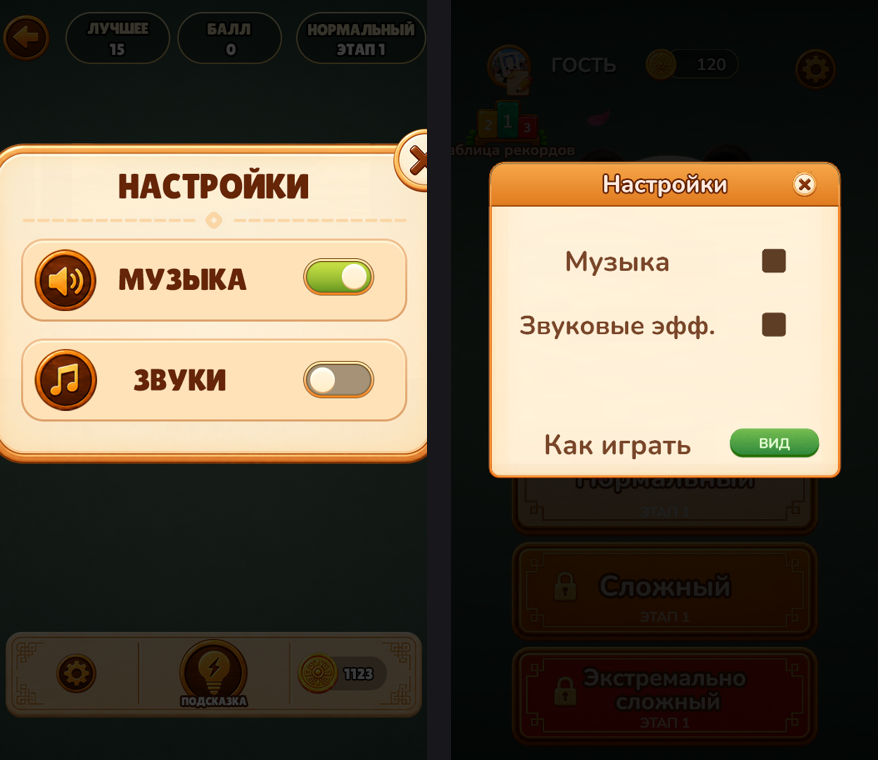
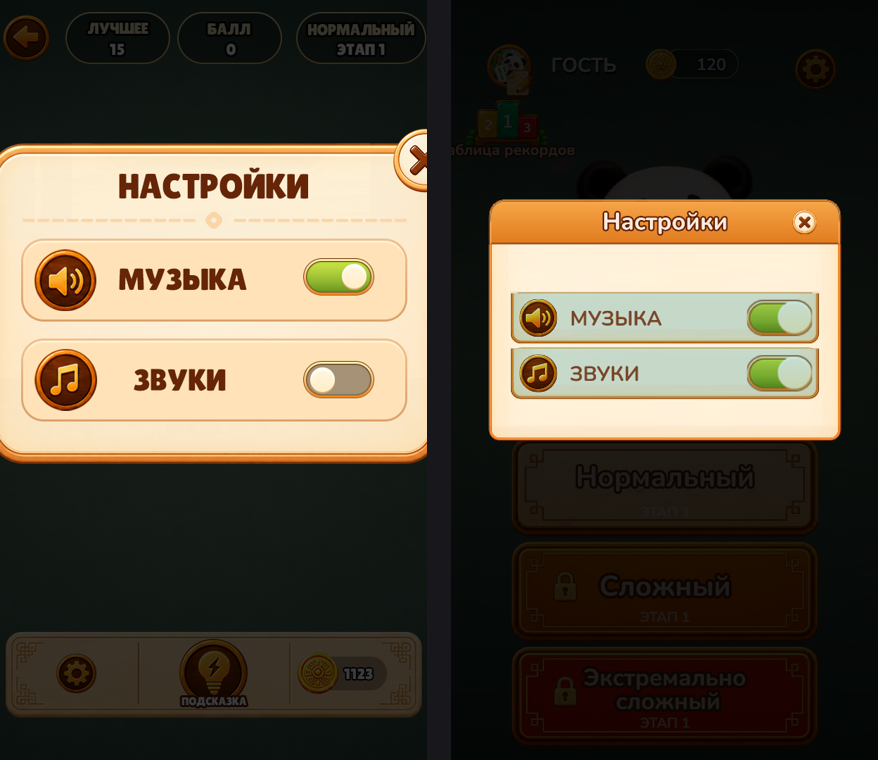
Settings dialog rebuilt to the mockup; pages refreshed
Two rows on cream panels with her round icons, uppercase captions and
toggles composed from her pill and knob files; the "how to play" row is gone
and the box is shorter. The brief drops the checkbox items now covered.

Changed region(s): [[0.5535, 0.2118, 0.9841, 0.6355]]

diff --git a/brief.html b/brief.html
@@ -62,24 +62,6 @@
   </div>
 </div>
 <div class="card item">
-  <div><img src="brief/img_set1.png" alt="set1"><p class="muted">так сейчас</p></div>
-  <div>
-    <div><span class="name">set1.png</span><span class="size">60x60</span></div>
-    <p>Квадрат чекбокса во включённом состоянии. Галочка поверх него уже твоя.</p>
-    <p class="muted">Где видно: окно настроек, «Музыка» и «Звуковые эфф.».</p>
-    
-  </div>
-</div>
-<div class="card item">
-  <div><img src="brief/img_yuan40_1_1.png" alt="yuan40_1_1"><p class="muted">так сейчас</p></div>
-  <div>
-    <div><span class="name">yuan40_1_1.png</span><span class="size">100x100</span></div>
-    <p>Квадрат чекбокса в выключенном состоянии.</p>
-    <p class="muted">Где видно: окно настроек.</p>
-    
-  </div>
-</div>
-<div class="card item">
   <div><img src="brief/img_xing.png" alt="xing"><p class="muted">так сейчас</p></div>
   <div>
     <div><span class="name">xing.png</span><span class="size">96x101</span></div>
@@ -208,14 +190,15 @@
 <h2>Мелочь</h2>
 <p>Маленькие кадры, каждый виден недолго. Делать после главного.</p>
 <table><tr><th>файл</th><th>размер</th><th>что это</th><th>сейчас</th></tr>
-<tr><td class="mono">0.png</td><td class="mono">158x158</td><td>белое свечение под выделенной плиткой</td><td><img src="brief/img_0.png" style="max-width:140px" alt=""></td></tr><tr><td class="mono">yuan1.png</td><td class="mono">95x91</td><td>бежевая плашка-подложка</td><td><img src="brief/img_yuan1.png" style="max-width:140px" alt=""></td></tr><tr><td class="mono">bg_addGame.png</td><td class="mono">78x78</td><td>белая плашка-подложка</td><td><img src="brief/img_bg_addGame.png" style="max-width:140px" alt=""></td></tr><tr><td class="mono">but_set.png</td><td class="mono">229x75</td><td>зелёная кнопка «Вид» в настройках</td><td><img src="brief/img_but_set.png" style="max-width:140px" alt=""></td></tr><tr><td class="mono">butbut2.png</td><td class="mono">595x181</td><td>оранжевая плашка, второе состояние большой кнопки</td><td><img src="brief/img_butbut2.png" style="max-width:140px" alt=""></td></tr><tr><td class="mono">red.png</td><td class="mono">60x67</td><td>розовая точка-уведомление</td><td><img src="brief/rank_main_red.png" style="max-width:140px" alt=""></td></tr><tr><td class="mono">sign3.png</td><td class="mono">49x78</td><td>знак вопроса</td><td><img src="brief/rank_main_sign3.png" style="max-width:140px" alt=""></td></tr><tr><td class="mono">sign4.png</td><td class="mono">116x116</td><td>серый штамп</td><td><img src="brief/rank_main_sign4.png" style="max-width:140px" alt=""></td></tr><tr><td class="mono">suo.png</td><td class="mono">49x39</td><td>ключик</td><td><img src="brief/rank_main_suo.png" style="max-width:140px" alt=""></td></tr><tr><td class="mono">tou1.png</td><td class="mono">120x120</td><td>кружок-заглушка под аватарку</td><td><img src="brief/rank_main_tou1.png" style="max-width:140px" alt=""></td></tr><tr><td class="mono">progressimg1.png</td><td class="mono">260x80</td><td>белая пилюля под полосу прогресса</td><td><img src="brief/rank_main_progressimg1.png" style="max-width:140px" alt=""></td></tr><tr><td class="mono">yuan40_2_1.png</td><td class="mono">100x66</td><td>белая плашка с плоским низом</td><td><img src="brief/rank_main_yuan40_2_1.png" style="max-width:140px" alt=""></td></tr><tr><td class="mono">yuan40_2_12.png</td><td class="mono">100x66</td><td>белая плашка с плоским низом</td><td><img src="brief/rank_main_yuan40_2_12.png" style="max-width:140px" alt=""></td></tr><tr><td class="mono">yuan501_12.png</td><td class="mono">120x120</td><td>белая плашка</td><td><img src="brief/rank_main_yuan501_12.png" style="max-width:140px" alt=""></td></tr><tr><td class="mono">yuan502_1.png</td><td class="mono">120x120</td><td>белая плашка</td><td><img src="brief/rank_main_yuan502_1.png" style="max-width:140px" alt=""></td></tr><tr><td class="mono">yuan502_12.png</td><td class="mono">120x120</td><td>белая плашка</td><td><img src="brief/rank_main_yuan502_12.png" style="max-width:140px" alt=""></td></tr><tr><td class="mono">shengjiduanwei.png</td><td class="mono">246x246</td><td>сияние при повышении ранга</td><td><img src="brief/rank_guang_shengjiduanwei.png" style="max-width:140px" alt=""></td></tr></table>
+<tr><td class="mono">0.png</td><td class="mono">158x158</td><td>белое свечение под выделенной плиткой</td><td><img src="brief/img_0.png" style="max-width:140px" alt=""></td></tr><tr><td class="mono">yuan1.png</td><td class="mono">95x91</td><td>бежевая плашка-подложка</td><td><img src="brief/img_yuan1.png" style="max-width:140px" alt=""></td></tr><tr><td class="mono">butbut2.png</td><td class="mono">595x181</td><td>оранжевая плашка, второе состояние большой кнопки</td><td><img src="brief/img_butbut2.png" style="max-width:140px" alt=""></td></tr><tr><td class="mono">red.png</td><td class="mono">60x67</td><td>розовая точка-уведомление</td><td><img src="brief/rank_main_red.png" style="max-width:140px" alt=""></td></tr><tr><td class="mono">sign3.png</td><td class="mono">49x78</td><td>знак вопроса</td><td><img src="brief/rank_main_sign3.png" style="max-width:140px" alt=""></td></tr><tr><td class="mono">suo.png</td><td class="mono">49x39</td><td>ключик</td><td><img src="brief/rank_main_suo.png" style="max-width:140px" alt=""></td></tr><tr><td class="mono">progressimg1.png</td><td class="mono">260x80</td><td>белая пилюля под полосу прогресса</td><td><img src="brief/rank_main_progressimg1.png" style="max-width:140px" alt=""></td></tr><tr><td class="mono">yuan40_2_1.png</td><td class="mono">100x66</td><td>белая плашка с плоским низом</td><td><img src="brief/rank_main_yuan40_2_1.png" style="max-width:140px" alt=""></td></tr><tr><td class="mono">yuan40_2_12.png</td><td class="mono">100x66</td><td>белая плашка с плоским низом</td><td><img src="brief/rank_main_yuan40_2_12.png" style="max-width:140px" alt=""></td></tr><tr><td class="mono">yuan501_12.png</td><td class="mono">120x120</td><td>белая плашка</td><td><img src="brief/rank_main_yuan501_12.png" style="max-width:140px" alt=""></td></tr><tr><td class="mono">yuan502_1.png</td><td class="mono">120x120</td><td>белая плашка</td><td><img src="brief/rank_main_yuan502_1.png" style="max-width:140px" alt=""></td></tr><tr><td class="mono">yuan502_12.png</td><td class="mono">120x120</td><td>белая плашка</td><td><img src="brief/rank_main_yuan502_12.png" style="max-width:140px" alt=""></td></tr><tr><td class="mono">shengjiduanwei.png</td><td class="mono">246x246</td><td>сияние при повышении ранга</td><td><img src="brief/rank_guang_shengjiduanwei.png" style="max-width:140px" alt=""></td></tr></table>
 <h2>Рисовать не надо</h2>
 <table><tr><th>что</th><th>почему</th></tr>
-<tr><td>окно «Тема» целиком</td><td>the1, the2, the3, them1, them2, thed, thedi, thedi2, choose1, choose2 - кнопку убрали, набор плиток один</td></tr><tr><td>третий набор плиток</td><td>60 граней «Милый» - набор убран из игры</td></tr><tr><td>bg1_1</td><td>кромка полки, в игре выключена</td></tr><tr><td>pai_di, pai_di2, qipandi1</td><td>почти прозрачные подложки под плиткой, их не видно</td></tr></table>
+<tr><td>окно «Тема» целиком</td><td>the1, the2, the3, them1, them2, thed, thedi, thedi2, choose1, choose2 - кнопку убрали, набор плиток один</td></tr><tr><td>третий набор плиток</td><td>60 граней «Милый» - набор убран из игры</td></tr><tr><td>bg1_1</td><td>кромка полки, в игре выключена</td></tr><tr><td>but_set, bg_addGame, tou1, sign4</td><td>кнопка «Вид» скрыта вместе со своей строкой; остальные три заняты твоими тумблером и иконками настроек</td></tr><tr><td>pai_di, pai_di2, qipandi1</td><td>почти прозрачные подложки под плиткой, их не видно</td></tr></table>
 
 <h2>Из присланного не встанет, и почему</h2>
 <table><tr><th>файл</th><th>причина</th></tr>
-<tr><td class="mono">win</td><td>панда для окна победы - в окне нет отдельного места под картинку над рамкой</td></tr><tr><td class="mono">overbg_1, overbg_2</td><td>лавровые ветки - места под них нет</td></tr><tr><td class="mono">sub_1</td><td>панель с выступом под панду - в игре один тип панели на все окна, он собран из sub</td></tr><tr><td class="mono">set_on, set_off_1, set_pointer, music_icon, sound_icon</td><td>в настройках чекбокс с галочкой, а не тумблер; нужен квадрат 60x60</td></tr><tr><td class="mono">bg_1, bg_1920x1080</td><td>горизонтальные фоны - игра вертикальная, сукно уже твоё</td></tr><tr><td class="mono">grade_1</td><td>не нашёл, к чему это</td></tr></table>
+<tr><td class="mono">win</td><td>панда для окна победы - в окне нет отдельного места под картинку над рамкой</td></tr><tr><td class="mono">overbg_1, overbg_2</td><td>лавровые ветки - места под них нет</td></tr><tr><td class="mono">sub_1</td><td>панель с выступом под панду - в игре один тип панели на все окна, он собран из sub</td></tr><tr><td class="mono">bg_1, bg_1920x1080</td><td>горизонтальные фоны - игра вертикальная, сукно уже твоё</td></tr><tr><td class="mono">grade_1</td><td>не нашёл, к чему это</td></tr></table>
 <p class="muted">Всё остальное из твоих файлов уже в игре: плитки все 55, аватарки все 15, панели окон,
-кнопки, иконки, медали, кольца, галочки, сукно, панда в меню, плашка внизу, бамбук.</p>
+кнопки, иконки, медали, кольца, галочки, сукно, панда в меню, плашка внизу, бамбук, тумблеры и иконки
+в настройках (собраны из твоих пилюль, кнопки и круглых иконок).</p>
 </div>

diff --git a/index.html b/index.html
@@ -33,8 +33,8 @@
 
 <div class="card">
 <h3 style="margin-top:0">Коротко</h3>
-<p>Картинок в игре 428. Наших <b>356</b>, чужих <b>72</b>.</p>
-<div class="bar"><i style="width:83%"></i></div>
+<p>Картинок в игре 428. Наших <b>360</b>, чужих <b>68</b>.</p>
+<div class="bar"><i style="width:84%"></i></div>
 <p class="muted">Отдельных файлов (атласы, звук): наших 10 из 84. Один файл это пачка картинок,
 поэтому проценты по файлам и по картинкам разные.</p>
 </div>
@@ -86,13 +86,13 @@
 заменены, чтобы чужих пикселей не осталось.</p>
 
 <h2>Что ещё осталось чужим в интерфейсе</h2>
-<p>23 картинок. Из них десять относятся к окну «Тема», которого больше нет, их
+<p>21 картинок. Из них десять относятся к окну «Тема», которого больше нет, их
 рисовать не надо. Заметные из оставшихся: подложка игрового поля, сетка на доске, звёзды за уровень,
 рука в обучении. Остальное мелочь.</p>
 <img src="sheets/img_left.png" alt="оставшиеся кадры интерфейса">
 
 <h2>Что из присланного Аней ещё не стоит в игре</h2>
-<p>Плитки использованы все, 55 из 55. Из интерфейса лежит без дела 14 файлов:</p>
+<p>Плитки использованы все, 55 из 55. Из интерфейса лежит без дела 12 файлов:</p>
 <img src="sheets/artist_unused.png" alt="неиспользованные файлы художницы">
 <p>Почему: горизонтальные фоны <code>bg_1</code> и <code>bg_1920x1080</code> - игра вертикальная, а
 сукно уже её; <code>win</code> и лавры <code>overbg_1/2</code> - в окне победы нет места под отдельную
